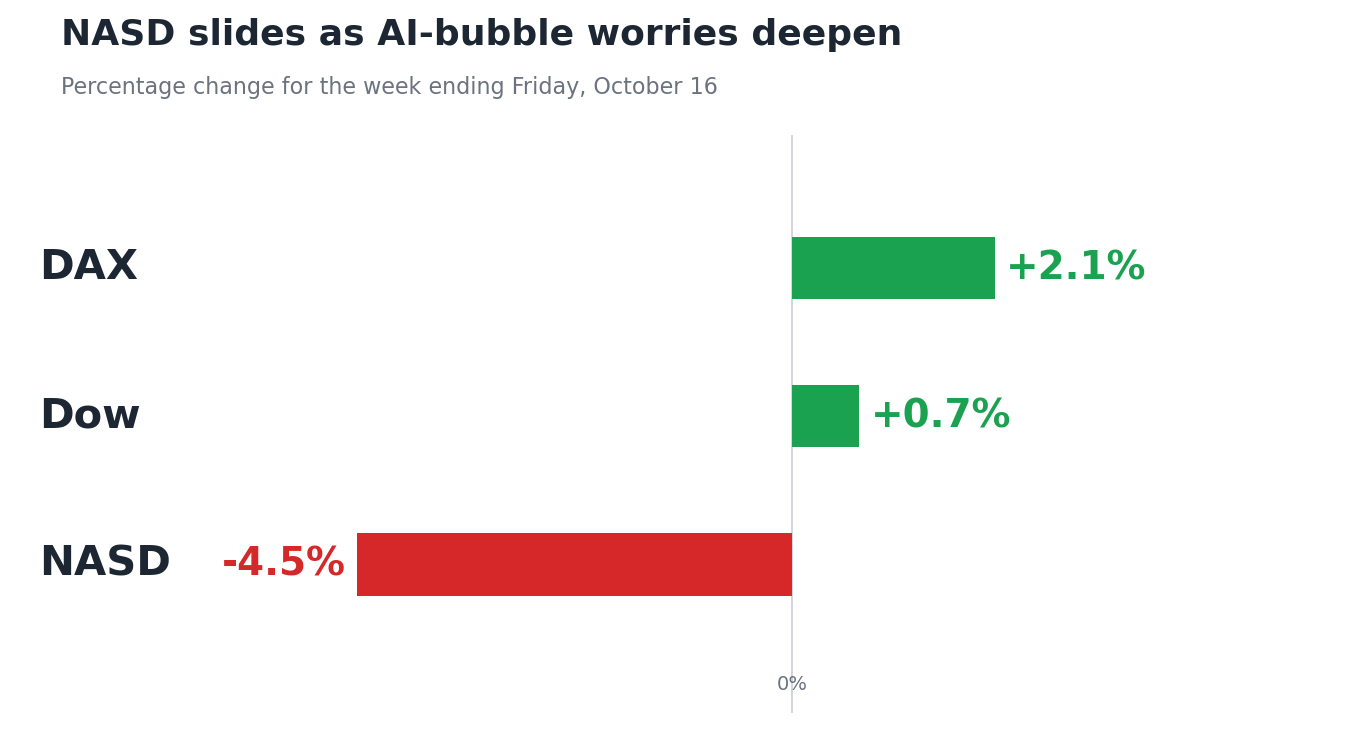
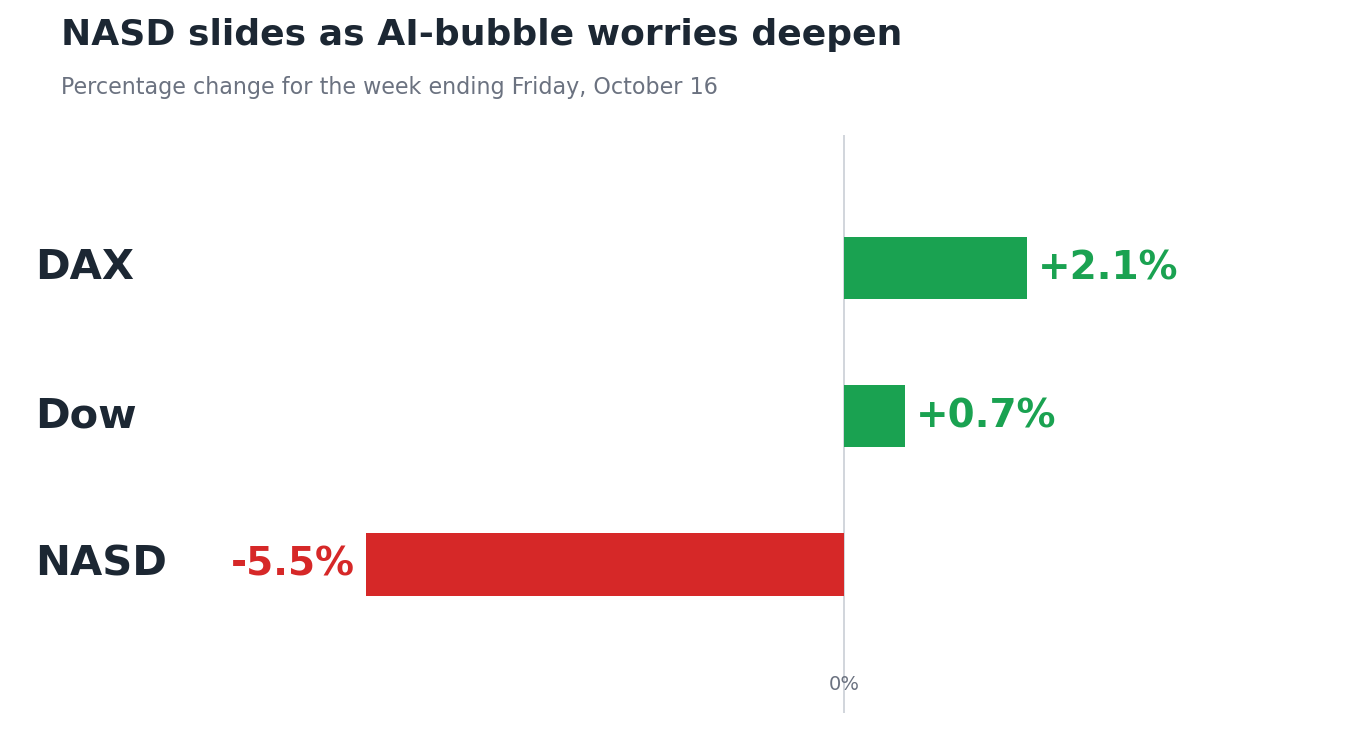
Switch NASD to Nasdaq-100 (US100) instead of Nasdaq Composite
NASD now tracks the Nasdaq-100 (US100), the index actually traded,
instead of the Nasdaq Composite. Weekly change, support/resistance,
and record high all recomputed against the Nasdaq-100's own data.

Claude-Session: https://claude.ai/code/session_01YZGGkfsqUkWWB9hW46v2Nz

diff --git a/content/blog/2026-10-19-week-ahead/index.md b/content/blog/2026-10-19-week-ahead/index.md
@@ -2,20 +2,20 @@
 title: "Week ahead: NASD slides as AI-bubble worries deepen"
 date: 2026-10-19T07:00:00+02:00
 draft: false
-description: "NASD had its worst week since June after a hotter-than-expected September inflation reading revived chip-stock worries about AI spending and Chinese competition. DAX and Dow both held up far better, with DAX actually gaining on strength in defence and auto stocks. This week brings earnings from Netflix, Tesla and Johnson & Johnson, plus Friday's flash PMI readings."
+description: "NASD had its roughest week in months after a hotter-than-expected September inflation reading revived chip-stock worries about AI spending and Chinese competition. DAX and Dow both held up far better, with DAX actually gaining on strength in defence and auto stocks. This week brings earnings from Netflix, Tesla and Johnson & Johnson, plus Friday's flash PMI readings."
 cover:
   image: "ai-bubble-week.png"
-  alt: "Bar chart showing weekly percentage change for DAX (+2.1%), Dow (+0.7%), and NASD (-4.5%) for the week ending Friday, October 16"
-  caption: "NASD's worst week since June stood out against solid gains for DAX and a smaller one for Dow"
+  alt: "Bar chart showing weekly percentage change for DAX (+2.1%), Dow (+0.7%), and NASD (-5.5%) for the week ending Friday, October 16"
+  caption: "NASD's roughest week in months stood out against solid gains for DAX and a smaller one for Dow"
 categories: ["Market Review"]
 tags: ["DAX", "Dow", "Nasdaq", "week ahead", "inflation", "earnings season"]
 ---
 
-Wednesday's inflation report was the week's turning point. September's consumer prices rose 3.7% year on year, hotter than the 3.6% forecast, and that was enough to revive worries about another Fed rate rise just as investors were already nervous about how much money has been poured into AI infrastructure and how exposed US chipmakers are to Chinese competition. Chip stocks bore the brunt of it, and NASD never really recovered even as Thursday brought a partial rebound. DAX and Dow told a different story: both held up far better, and DAX actually finished the week higher, carried by defence and auto stocks rather than anything to do with inflation at all.
+Wednesday's inflation report was the week's turning point. September's consumer prices rose 3.7% year on year, hotter than the 3.6% forecast, and that was enough to revive worries about another Fed rate rise just as investors were already nervous about how much money has been poured into AI infrastructure and how exposed US chipmakers are to Chinese competition. Chip stocks bore the brunt of it, and NASD (the Nasdaq-100) never really recovered even as Thursday brought a partial rebound. DAX and Dow told a different story: both held up far better, and DAX actually finished the week higher, carried by defence and auto stocks rather than anything to do with inflation at all.
 
 ## Last week
 
-NASD fell 4.5% to close at 26,140.03, its worst week since June, as Micron dropped 5.6% and Intel lost 5.8% on Friday alone. Dow added 0.7% to 52,002.41, with energy stocks helping cushion the broader tech-led weakness. DAX gained 2.1% to 25,622.42, helped by Rheinmetall's 6.1% jump as European leaders met in Brussels to reaffirm support for Ukraine, plus solid gains for BMW, Mercedes-Benz and Volkswagen on hopes of more flexible EU emissions rules.
+NASD fell 5.5% to close at 29,187.55, one of its roughest weeks in months, as Micron dropped 5.6% and Intel lost 5.8% on Friday alone on the broader chip-stock selloff. Dow added 0.7% to 52,002.41, with energy stocks helping cushion the broader tech-led weakness. DAX gained 2.1% to 25,622.42, helped by Rheinmetall's 6.1% jump as European leaders met in Brussels to reaffirm support for Ukraine, plus solid gains for BMW, Mercedes-Benz and Volkswagen on hopes of more flexible EU emissions rules.
 
 ## The week ahead
 
@@ -26,13 +26,13 @@ DAX has [support](/learn/reading-charts/support-and-resistance/) around 25,520 a
 
 ### Dow
 
-<!-- Support/resistance from the daily chart's own swing structure: the Oct 12/14 high cluster (51,850-51,930, investing.com) is now support after last week's breakout; the Sep 22/Oct 13 high cluster (~52,320) is the nearest resistance above it. -->
-Dow has support around 51,850 and resistance around 52,320, with its record high of 54,349 still standing above both. Dow has now held up through two straight weeks of tech wobbles, largely because it carries so much less exposure to the AI and chip names driving the selling. Netflix and Johnson & Johnson both report Tuesday, and while neither moves the index much on its own, a broadly strong start to earnings season would help keep that resilience intact.
+<!-- Support/resistance from the daily chart's own swing structure: the Oct 12/14 high cluster (51,850-51,930, investing.com) is now support after last week's breakout; the Sep 22/Oct 13 high cluster (~52,320) is the nearest resistance above it. Dow's all-time high is 54,796.45 (corrected from 54,349 cited previously). -->
+Dow has support around 51,850 and resistance around 52,320, with its record high of 54,796 still standing above both. Dow has now held up through two straight weeks of tech wobbles, largely because it carries so much less exposure to the AI and chip names driving the selling. Netflix and Johnson & Johnson both report Tuesday, and while neither moves the index much on its own, a broadly strong start to earnings season would help keep that resilience intact.
 
 ### NASD
 
-<!-- Support/resistance from the daily chart's own swing structure: NASD broke clean through its late-September base (26,706-26,874, investing.com) with no shelf underneath yet, so support is this week's own low (26,023) and that broken base is now the nearest resistance above it (~26,874). Correction: NASD's actual record close is 27,599.89, set 6 October 2026 (investing.com), not the 27,244.28 cited in earlier posts. -->
-NASD has support around 26,023, this week's own low, with the late-September base it broke through, around 26,874, now standing overhead as the nearest resistance. That's also a correction worth flagging: NASD's real record close is 27,599.89, set on 6 October, not the 27,244.28 we've cited in recent weeks, a level the index had already moved well past before last week's reversal. Tesla reports Tuesday, and given how much of this week's selling was about AI spending and chip exposure specifically, its results and especially its tone on AI-related capital spending are likely to matter more than usual. A close below 26,023 would point to the selling having further to run; reclaiming 26,874 would be the clearest sign the AI-bubble worries are starting to fade rather than build.
+<!-- NASD now tracks the Nasdaq-100 (US100), not the Nasdaq Composite, to match what's actually traded. Support/resistance from the daily chart's own swing structure (investing.com Nasdaq 100 data): the index broke clean through its late-September base (29,933-30,081) with no shelf underneath yet, so support is this week's own low (29,073) and that broken base is now the nearest resistance above it (~29,930). All-time high is 31,404.65. -->
+NASD (the Nasdaq-100) has support around 29,073, this week's own low, with the late-September base it broke through, around 29,930, now standing overhead as the nearest resistance, and its record high of 31,405 well above that. Tesla reports Tuesday, and given how much of this week's selling was about AI spending and chip exposure specifically, its results and especially its tone on AI-related capital spending are likely to matter more than usual. A close below 29,073 would point to the selling having further to run; reclaiming 29,930 would be the clearest sign the AI-bubble worries are starting to fade rather than build.
 
 ## Elsewhere this week
 
